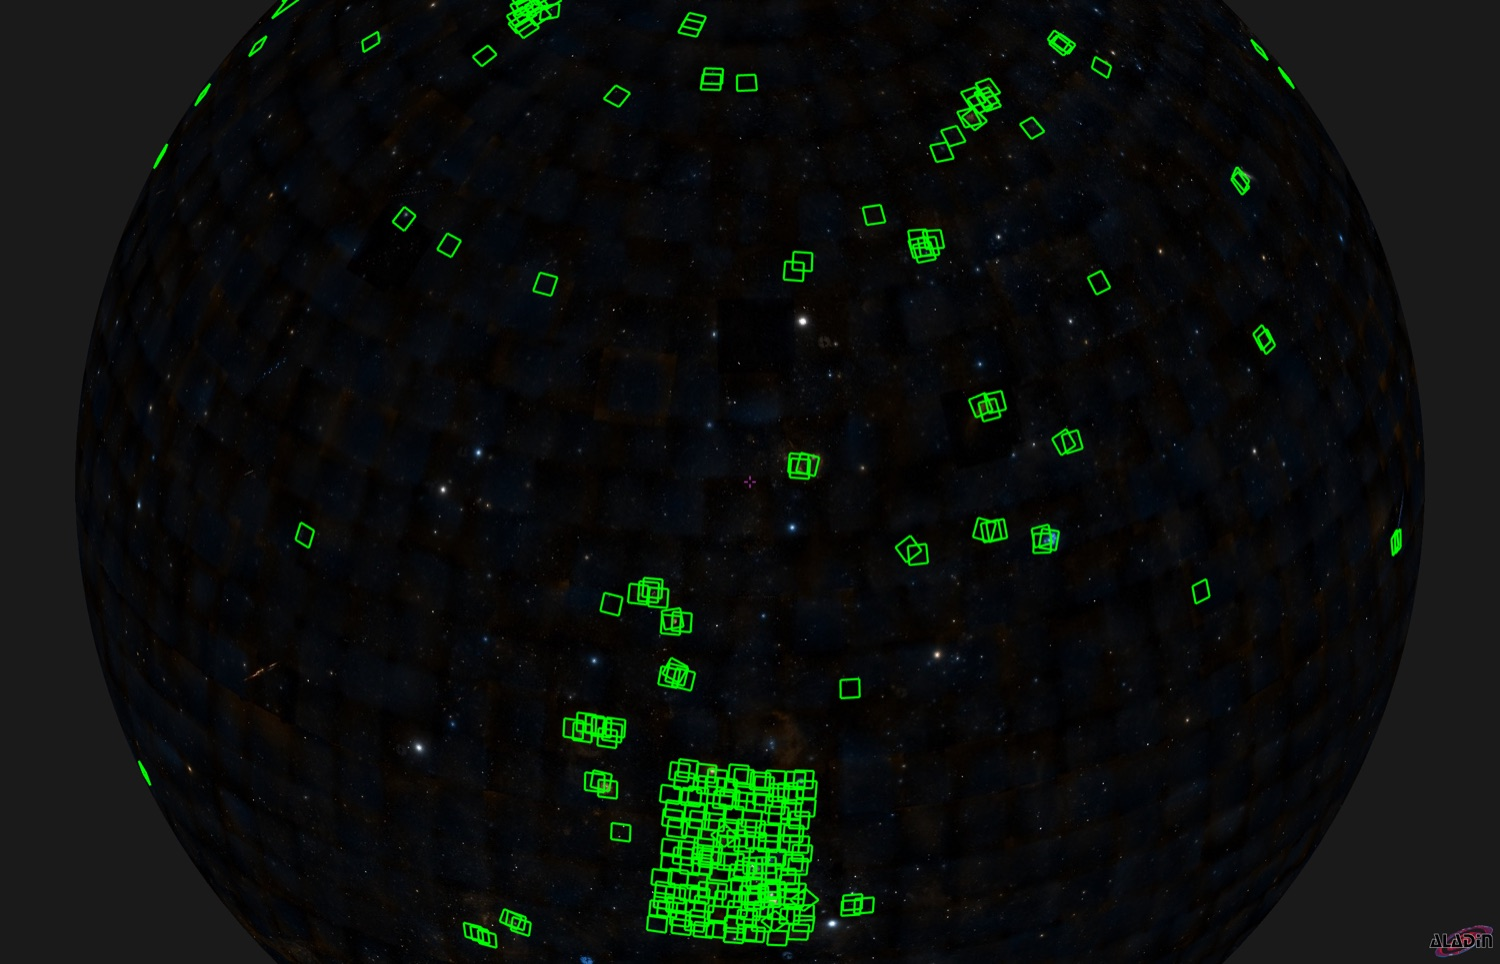
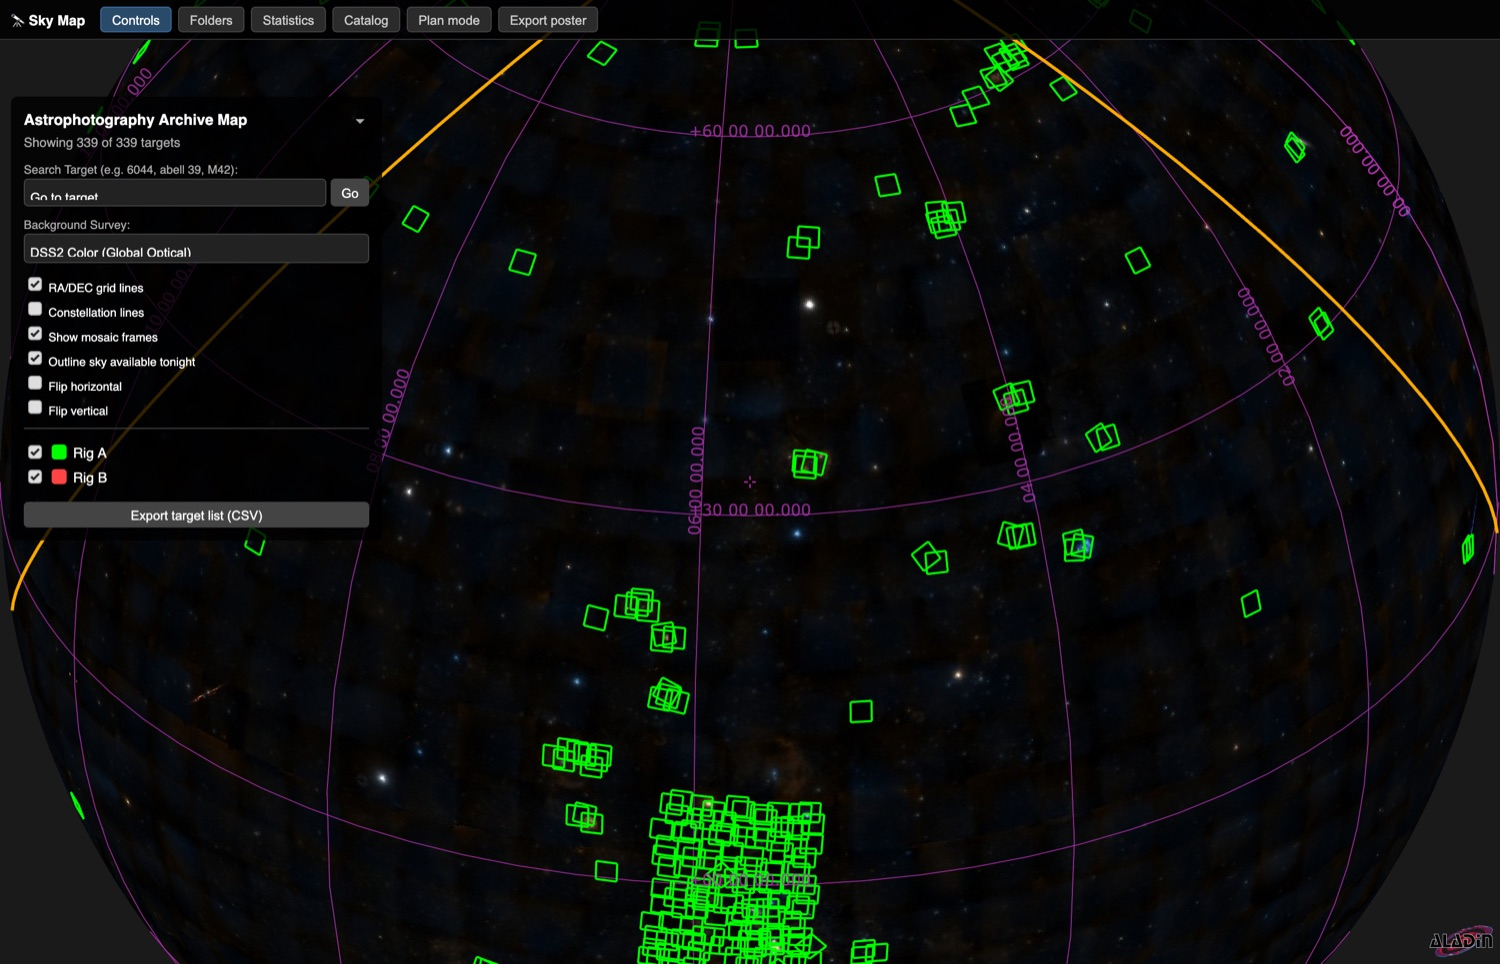
Add MIT license, rename script to sky-mapper.py, remove redundant click-to-copy
- Add LICENSE (MIT)
- Rename sky_mapper12.py -> sky-mapper.py
- Remove the now-redundant "Click-to-copy coordinates" checkbox (Plan mode covers it)
- Refresh hero screenshot; fix README script name and clone URL

diff --git a/README.md b/README.md
@@ -98,7 +98,7 @@ Turn on **Plan mode** and click any patch of sky to get a planning popup:
 
 ```bash
 # 1. Clone
-git clone https://github.com/<your-username>/sky-mapper.git
+git clone https://github.com/etotman/sky-mapper.git
 cd sky-mapper
 
 # 2. (Recommended) create a virtual environment
@@ -121,7 +121,7 @@ up in the repository.
 ## Usage
 
 ```bash
-python sky_mapper12.py
+python sky-mapper.py
 ```
 
 On the first run it scans your folders (reading each file's header once and caching
@@ -138,7 +138,7 @@ pruned. You can also rebuild without the terminal using the in‑page **Rescan**
 
 ## Configuration
 
-Set these in `local_config.py` (any of them override the defaults in `sky_mapper12.py`):
+Set these in `local_config.py` (any of them override the defaults in `sky-mapper.py`):
 
 | Setting | Purpose |
 |---|---|
@@ -153,7 +153,7 @@ Set these in `local_config.py` (any of them override the defaults in `sky_mapper
 
 ## How it works
 
-- **Scanner** (`sky_mapper12.py`) walks `SEARCH_DIRS`, reads RA/Dec, target, exposure,
+- **Scanner** (`sky-mapper.py`) walks `SEARCH_DIRS`, reads RA/Dec, target, exposure,
   filter, date, camera FOV/rotation and capture conditions from each FITS/XISF header,
   and caches them keyed by file path + modification time.
 - **Map generation** clusters frames by sky position, computes true footprints, and
@@ -170,7 +170,7 @@ Pull the latest code; your `local_config.py` and caches are untouched:
 
 ```bash
 git pull
-python sky_mapper12.py     # rescans and regenerates the map
+python sky-mapper.py     # rescans and regenerates the map
 ```
 
 ---
@@ -200,3 +200,9 @@ because they contain your local file paths or are regenerated on demand:
 - [Aladin Lite](https://aladin.cds.unistra.fr/AladinLite/) and the survey HiPS, by CDS, Strasbourg
 - [SIMBAD](https://simbad.cds.unistra.fr/) (CDS) and [NED](https://ned.ipac.caltech.edu/) (IPAC/Caltech) for object reference data
 - Constellation line data from [d3‑celestial](https://github.com/ofrohn/d3-celestial)
+
+---
+
+## License
+
+Released under the [MIT License](LICENSE).